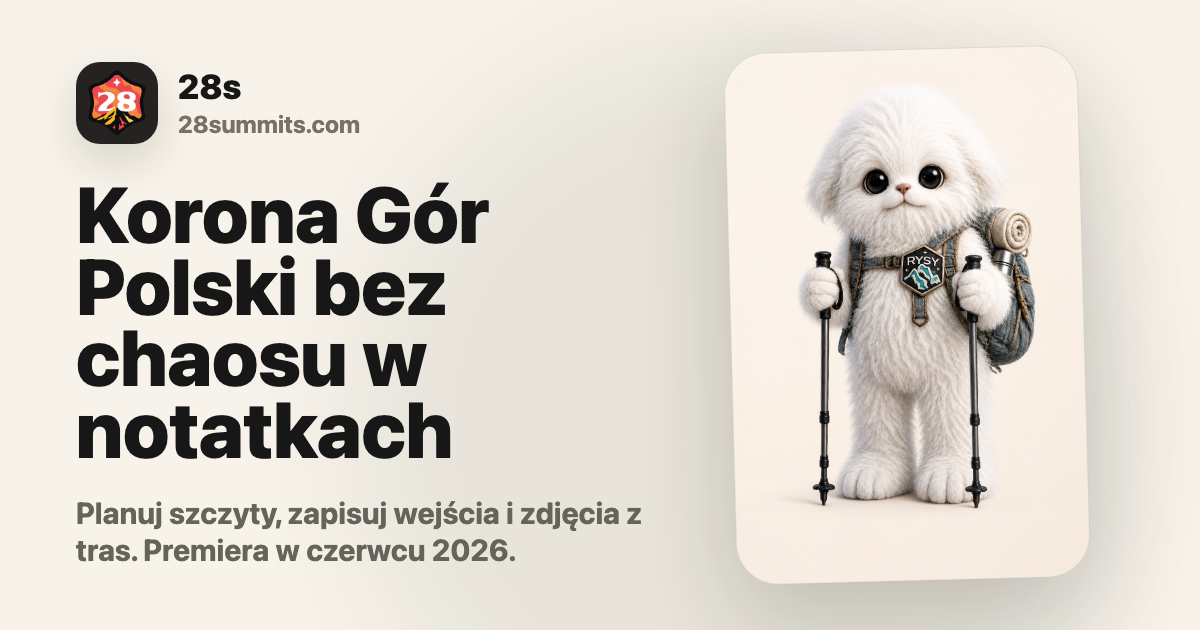
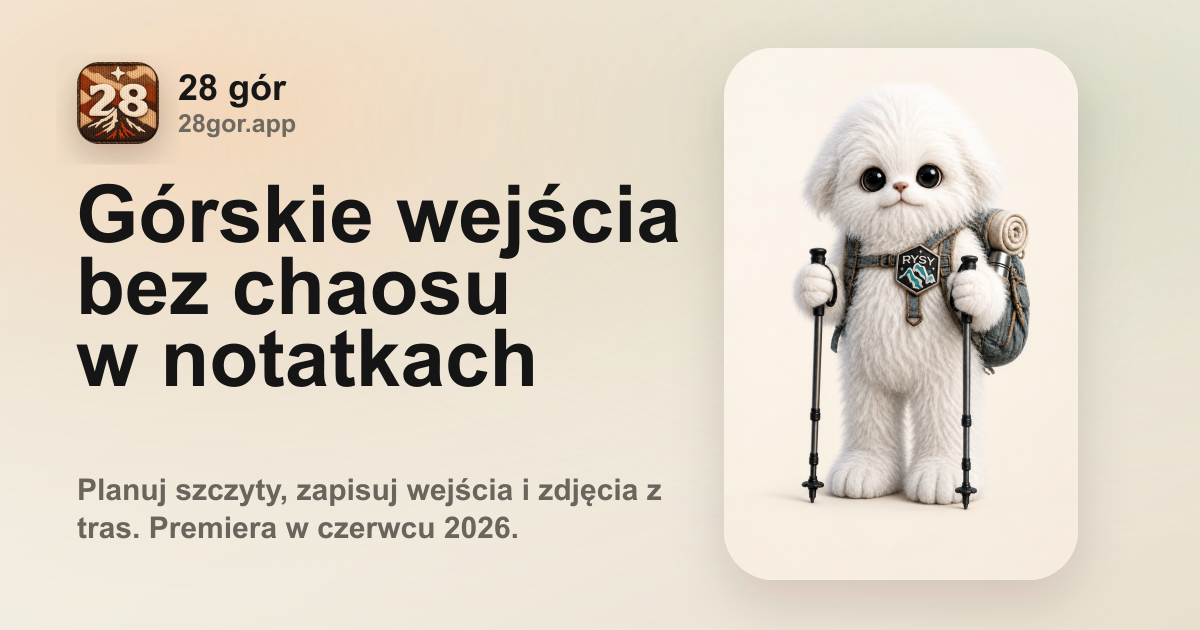
Rebrand site to 28 gór

diff --git a/app/_lib/site-content.ts b/app/_lib/site-content.ts
@@ -1,20 +1,24 @@
 export const siteConfig = {
-    name: "28s",
-    productName: "28 Summits",
+    name: "28 gór",
+    productName: "28 gór",
     operatorName: "async.studio",
     contactEmail: "[email redacted]",
-    siteHost: "28summits.com",
+    siteHost: "28gor.app",
     currencyCode: "PLN",
     paymentProcessorName: "Stripe",
     appStoreUrl: "https://apps.apple.com/app/28-summits/id0000000000",
     playStoreUrl: "https://play.google.com/store/apps/details?id=com.28summits.app",
-    launchUpdatesUrl: "mailto:[email redacted]?subject=28s%20launch%20updates",
-    siteUrl: "https://28summits.com",
-    description: "28s pomaga planować Koronę Gór Polski, zapisywać wejścia i porządkować zdjęcia z tras.",
-    socialTitle: "28s - Korona Gór Polski bez chaosu w notatkach",
+    launchUpdatesUrl: "mailto:[email redacted]?subject=28%20g%C3%B3r%20launch%20updates",
+    siteUrl: "https://28gor.app",
+    appIcon: "/app-icon.png",
+    appleTouchIcon: "/apple-touch-icon.png",
+    faviconIcon16: "/favicon-16x16.png",
+    faviconIcon32: "/favicon-32x32.png",
+    description: "28 gór pomaga planować szczyty, zapisywać wejścia i porządkować zdjęcia z tras.",
+    socialTitle: "28 gór - górskie wejścia bez chaosu w notatkach",
     socialDescription: "Planuj szczyty, zapisuj wejścia i zdjęcia z tras. Premiera w czerwcu 2026.",
     socialImage: "/og-image.png",
-    socialImageAlt: "28s - aplikacja do planowania i zapisywania Korony Gór Polski.",
+    socialImageAlt: "28 gór - aplikacja do planowania i zapisywania wejść w górach.",
 } as const
 
 export const siteLocales = ["pl", "en"] as const
@@ -70,8 +74,8 @@ export const homeContent: Record<
         },
         hero: {
             eyebrow: "Premiera w czerwcu 2026",
-            headline: "28s",
-            body: "Aplikacja dla osób, które chcą przejść Koronę Gór Polski bez chaosu w notatkach: planuj szczyty, zapisuj wejścia, dodawaj zdjęcia i wracaj do tras, które naprawdę zrobiłeś.",
+            headline: "28 gór",
+            body: "Aplikacja dla osób, które chcą przejść 28 gór bez chaosu w notatkach: planuj szczyty, zapisuj wejścia, dodawaj zdjęcia i wracaj do tras, które naprawdę zrobiłeś.",
             ctas: {
                 updates: "Daj znać o starcie",
             },
@@ -81,7 +85,7 @@ export const homeContent: Record<
         },
         compliance: {
             summaryParts: [
-                `28s to produkt ${siteConfig.operatorName}`,
+                `28 gór to produkt ${siteConfig.operatorName}`,
                 "fizyczne piny kolekcjonerskie w aplikacji",
                 `ceny w ${siteConfig.currencyCode}`,
                 `${siteConfig.paymentProcessorName} tylko dla fizycznych produktów`,
@@ -106,8 +110,8 @@ export const homeContent: Record<
         },
         hero: {
             eyebrow: "Coming June 2026",
-            headline: "28s",
-            body: "A mountain companion for the Crown of Polish Mountains: plan your peaks, record real completions, attach photos, and keep the routes you actually walked in one tidy place.",
+            headline: "28 gór",
+            body: "A mountain companion for people planning their next peaks: record real completions, attach photos, and keep the routes you actually walked in one tidy place.",
             ctas: {
                 updates: "Get launch updates",
             },
@@ -117,7 +121,7 @@ export const homeContent: Record<
         },
         compliance: {
             summaryParts: [
-                `28s is a product by ${siteConfig.operatorName}`,
+                `28 gór is a product by ${siteConfig.operatorName}`,
                 "physical collectible pins in app",
                 `prices in ${siteConfig.currencyCode}`,
                 `${siteConfig.paymentProcessorName} only for physical products`,
@@ -149,8 +153,8 @@ export const legalDocuments: Record<LegalDocument["slug"], LegalDocument> = {
         title: "Polityka prywatności",
         effectiveDate: "Obowiązuje od 29 maja 2026 r.",
         intro: [
-            `Ta polityka opisuje, jak ${siteConfig.operatorName} jako operator produktu 28s / 28 Summits przetwarza dane osobowe użytkowników strony ${siteConfig.siteHost} oraz planowanej aplikacji mobilnej.`,
-            "28s ma wystartować w czerwcu 2026 r. Dokument obejmuje stronę zapowiadającą, kontakt z użytkownikami oraz funkcje aplikacji, takie jak konto, dziennik wejść, zdjęcia, preferencje i synchronizacja danych.",
+            `Ta polityka opisuje, jak ${siteConfig.operatorName} jako operator produktu 28 gór przetwarza dane osobowe użytkowników strony ${siteConfig.siteHost} oraz planowanej aplikacji mobilnej.`,
+            "28 gór ma wystartować w czerwcu 2026 r. Dokument obejmuje stronę zapowiadającą, kontakt z użytkownikami oraz funkcje aplikacji, takie jak konto, dziennik wejść, zdjęcia, preferencje i synchronizacja danych.",
         ],
         sections: [
             {
@@ -158,7 +162,7 @@ export const legalDocuments: Record<LegalDocument["slug"], LegalDocument> = {
                 body: [
                     {
                         type: "paragraph",
-                        text: `Administratorem danych osobowych jest ${siteConfig.operatorName}, operator produktu 28s / 28 Summits. Kontakt w sprawach prywatności, danych osobowych i obsługi użytkownika: ${siteConfig.contactEmail}.`,
+                        text: `Administratorem danych osobowych jest ${siteConfig.operatorName}, operator produktu 28 gór. Kontakt w sprawach prywatności, danych osobowych i obsługi użytkownika: ${siteConfig.contactEmail}.`,
                     },
                     {
                         type: "paragraph",
@@ -304,7 +308,7 @@ export const legalDocuments: Record<LegalDocument["slug"], LegalDocument> = {
                 body: [
                     {
                         type: "paragraph",
-                        text: "28s nie podejmuje decyzji wywołujących wobec użytkownika skutki prawne wyłącznie w sposób zautomatyzowany. Jeżeli zostaną uruchomione funkcje AI, będą przetwarzać dane przekazane przez użytkownika tylko w zakresie potrzebnym do działania konkretnej funkcji, np. podsumowania notatki albo uporządkowania opisu trasy.",
+                        text: "28 gór nie podejmuje decyzji wywołujących wobec użytkownika skutki prawne wyłącznie w sposób zautomatyzowany. Jeżeli zostaną uruchomione funkcje AI, będą przetwarzać dane przekazane przez użytkownika tylko w zakresie potrzebnym do działania konkretnej funkcji, np. podsumowania notatki albo uporządkowania opisu trasy.",
                     },
                 ],
             },
@@ -333,8 +337,8 @@ export const legalDocuments: Record<LegalDocument["slug"], LegalDocument> = {
         title: "Regulamin",
         effectiveDate: "Obowiązuje od 29 maja 2026 r.",
         intro: [
-            `Regulamin określa zasady korzystania ze strony ${siteConfig.siteHost} oraz aplikacji 28s / 28 Summits. Produkt jest rozwijany przez ${siteConfig.operatorName}, a premiera aplikacji jest planowana na czerwiec 2026 r.`,
-            "28s ma pomagać w planowaniu i dokumentowaniu Korony Gór Polski. Nie zastępuje map, komunikatów GOPR/TOPR, prognoz pogody, oznaczeń w terenie ani rozsądnej oceny warunków.",
+            `Regulamin określa zasady korzystania ze strony ${siteConfig.siteHost} oraz aplikacji 28 gór. Produkt jest rozwijany przez ${siteConfig.operatorName}, a premiera aplikacji jest planowana na czerwiec 2026 r.`,
+            "28 gór ma pomagać w planowaniu i dokumentowaniu górskich wejść. Nie zastępuje map, komunikatów GOPR/TOPR, prognoz pogody, oznaczeń w terenie ani rozsądnej oceny warunków.",
         ],
         sections: [
             {
@@ -342,7 +346,7 @@ export const legalDocuments: Record<LegalDocument["slug"], LegalDocument> = {
                 body: [
                     {
                         type: "paragraph",
-                        text: `Usługodawcą i operatorem produktu 28s / 28 Summits jest ${siteConfig.operatorName}. Kontakt w sprawach regulaminu, działania usługi i obsługi użytkownika: ${siteConfig.contactEmail}.`,
+                        text: `Usługodawcą i operatorem produktu 28 gór jest ${siteConfig.operatorName}. Kontakt w sprawach regulaminu, działania usługi i obsługi użytkownika: ${siteConfig.contactEmail}.`,
                     },
                     {
                         type: "paragraph",
@@ -356,7 +360,7 @@ export const legalDocuments: Record<LegalDocument["slug"], LegalDocument> = {
                     {
                         type: "list",
                         items: [
-                            `Usługa - strona ${siteConfig.siteHost}, aplikacja 28s / 28 Summits oraz funkcje udostępniane użytkownikom.`,
+                            `Usługa - strona ${siteConfig.siteHost}, aplikacja 28 gór oraz funkcje udostępniane użytkownikom.`,
                             "Użytkownik - osoba korzystająca ze strony, aplikacji, formularza kontaktowego lub funkcji konta.",
                             "Konto - indywidualny dostęp do funkcji aplikacji, jeżeli konto zostanie utworzone.",
                             "Treści użytkownika - zdjęcia, notatki, opisy, statusy wejść, preferencje i inne dane dodane przez użytkownika.",
@@ -373,7 +377,7 @@ export const legalDocuments: Record<LegalDocument["slug"], LegalDocument> = {
                     },
                     {
                         type: "paragraph",
-                        text: "W aplikacji 28s będzie można kupić limitowane piny kolekcjonerskie oraz powiązany merch jako fizyczne produkty wysyłane do klientów. Warunki zakupu będą prezentowane przed płatnością.",
+                        text: "W aplikacji 28 gór będzie można kupić limitowane piny kolekcjonerskie oraz powiązany merch jako fizyczne produkty wysyłane do klientów. Warunki zakupu będą prezentowane przed płatnością.",
                     },
                 ],
             },
@@ -444,7 +448,7 @@ export const legalDocuments: Record<LegalDocument["slug"], LegalDocument> = {
                 body: [
                     {
                         type: "paragraph",
-                        text: `${siteConfig.paymentProcessorName} obsługuje wyłącznie płatności za fizyczne produkty 28s wysyłane do klientów. 28s nie używa ${siteConfig.paymentProcessorName} do sprzedaży cyfrowych funkcji aplikacji, subskrypcji, kredytów, dostępu premium, odblokowań funkcji ani treści cyfrowych.`,
+                        text: `${siteConfig.paymentProcessorName} obsługuje wyłącznie płatności za fizyczne produkty 28 gór wysyłane do klientów. 28 gór nie używa ${siteConfig.paymentProcessorName} do sprzedaży cyfrowych funkcji aplikacji, subskrypcji, kredytów, dostępu premium, odblokowań funkcji ani treści cyfrowych.`,
                     },
                     {
                         type: "paragraph",
@@ -513,7 +517,7 @@ export const legalDocuments: Record<LegalDocument["slug"], LegalDocument> = {
                 body: [
                     {
                         type: "paragraph",
-                        text: "Niektóre edycje pinów mogą zawierać QR lub NFC, które otwierają informacje o fizycznym produkcie albo pozwalają powiązać pin z istniejącym profilem 28s. QR ani NFC nie służą do płatnego odblokowywania cyfrowych funkcji aplikacji.",
+                        text: "Niektóre edycje pinów mogą zawierać QR lub NFC, które otwierają informacje o fizycznym produkcie albo pozwalają powiązać pin z istniejącym profilem 28 gór. QR ani NFC nie służą do płatnego odblokowywania cyfrowych funkcji aplikacji.",
                     },
                 ],
             },
@@ -548,7 +552,7 @@ export const legalDocuments: Record<LegalDocument["slug"], LegalDocument> = {
                 body: [
                     {
                         type: "paragraph",
-                        text: "Nazwa 28s, 28 Summits, wygląd strony i aplikacji, teksty, układ interfejsu, grafiki oraz elementy produktu stanowią własność operatora albo są używane na podstawie odpowiednich uprawnień. Korzystanie z usługi nie przenosi na użytkownika praw własności intelektualnej.",
+                        text: "Nazwa 28 gór, wygląd strony i aplikacji, teksty, układ interfejsu, grafiki oraz elementy produktu stanowią własność operatora albo są używane na podstawie odpowiednich uprawnień. Korzystanie z usługi nie przenosi na użytkownika praw własności intelektualnej.",
                     },
                 ],
             },
@@ -599,8 +603,8 @@ export const englishLegalDocuments: Record<LegalDocument["slug"], LegalDocument>
         title: "Privacy Policy",
         effectiveDate: "Effective from May 29, 2026",
         intro: [
-            `This policy explains how ${siteConfig.operatorName}, as the operator of 28s / 28 Summits, processes personal data of users of ${siteConfig.siteHost} and the planned mobile app.`,
-            "28s is planned to launch in June 2026. This document covers the launch website, user contact, and planned app features such as accounts, summit logs, photos, preferences, and data synchronization.",
+            `This policy explains how ${siteConfig.operatorName}, as the operator of 28 gór, processes personal data of users of ${siteConfig.siteHost} and the planned mobile app.`,
+            "28 gór is planned to launch in June 2026. This document covers the launch website, user contact, and planned app features such as accounts, summit logs, photos, preferences, and data synchronization.",
         ],
         sections: [
             {
@@ -608,7 +612,7 @@ export const englishLegalDocuments: Record<LegalDocument["slug"], LegalDocument>
                 body: [
                     {
                         type: "paragraph",
-                        text: `The data controller is ${siteConfig.operatorName}, operator of 28s / 28 Summits. For privacy, personal data, and user support matters, contact us at ${siteConfig.contactEmail}.`,
+                        text: `The data controller is ${siteConfig.operatorName}, operator of 28 gór. For privacy, personal data, and user support matters, contact us at ${siteConfig.contactEmail}.`,
                     },
                     {
                         type: "paragraph",
@@ -754,7 +758,7 @@ export const englishLegalDocuments: Record<LegalDocument["slug"], LegalDocument>
                 body: [
                     {
                         type: "paragraph",
-                        text: "28s does not make decisions that produce legal effects for users solely by automated means. If AI features are launched, they will process user-provided data only as needed for a specific feature, for example to summarize a note or organize a route description.",
+                        text: "28 gór does not make decisions that produce legal effects for users solely by automated means. If AI features are launched, they will process user-provided data only as needed for a specific feature, for example to summarize a note or organize a route description.",
                     },
                 ],
             },
@@ -783,8 +787,8 @@ export const englishLegalDocuments: Record<LegalDocument["slug"], LegalDocument>
         title: "Terms",
         effectiveDate: "Effective from May 29, 2026",
         intro: [
-            `These terms define the rules for using ${siteConfig.siteHost} and the 28s / 28 Summits app. The product is developed by ${siteConfig.operatorName}, and the app launch is planned for June 2026.`,
-            "28s helps users plan and document the Crown of Polish Mountains. It does not replace maps, GOPR/TOPR notices, weather forecasts, trail signs, or your own assessment of conditions.",
+            `These terms define the rules for using ${siteConfig.siteHost} and the 28 gór app. The product is developed by ${siteConfig.operatorName}, and the app launch is planned for June 2026.`,
+            "28 gór helps users plan and document mountain hikes. It does not replace maps, GOPR/TOPR notices, weather forecasts, trail signs, or your own assessment of conditions.",
         ],
         sections: [
             {
@@ -792,7 +796,7 @@ export const englishLegalDocuments: Record<LegalDocument["slug"], LegalDocument>
                 body: [
                     {
                         type: "paragraph",
-                        text: `${siteConfig.operatorName} is the service provider and operator of 28s / 28 Summits. For questions about these terms, the service, or user support, contact ${siteConfig.contactEmail}.`,
+                        text: `${siteConfig.operatorName} is the service provider and operator of 28 gór. For questions about these terms, the service, or user support, contact ${siteConfig.contactEmail}.`,
                     },
                     {
                         type: "paragraph",
@@ -806,7 +810,7 @@ export const englishLegalDocuments: Record<LegalDocument["slug"], LegalDocument>
                     {
                         type: "list",
                         items: [
-                            `Service - ${siteConfig.siteHost}, the 28s / 28 Summits app, and features made available to users.`,
+                            `Service - ${siteConfig.siteHost}, the 28 gór app, and features made available to users.`,
                             "User - a person using the website, app, contact form, or account features.",
                             "Account - individual access to app features if an account is created.",
                             "User Content - photos, notes, descriptions, summit statuses, preferences, and other data added by the user.",
@@ -819,7 +823,7 @@ export const englishLegalDocuments: Record<LegalDocument["slug"], LegalDocument>
                 body: [
                     {
                         type: "paragraph",
-                        text: "At the launch-preview stage, the website may provide product information and contact options. After launch, the app may include peak planning, summit logs, photo storage, account synchronization, preferences, and other features related to the Crown of Polish Mountains.",
+                        text: "At the launch-preview stage, the website may provide product information and contact options. After launch, the app may include peak planning, summit logs, photo storage, account synchronization, preferences, and other features related to mountain planning and trip documentation.",
                     },
                     {
                         type: "paragraph",
@@ -894,7 +898,7 @@ export const englishLegalDocuments: Record<LegalDocument["slug"], LegalDocument>
                 body: [
                     {
                         type: "paragraph",
-                        text: `${siteConfig.paymentProcessorName} handles payments only for physical 28s products shipped to customers. 28s does not use ${siteConfig.paymentProcessorName} to sell digital app features, subscriptions, credits, premium access, feature unlocks, or digital content.`,
+                        text: `${siteConfig.paymentProcessorName} handles payments only for physical 28 gór products shipped to customers. 28 gór does not use ${siteConfig.paymentProcessorName} to sell digital app features, subscriptions, credits, premium access, feature unlocks, or digital content.`,
                     },
                     {
                         type: "paragraph",
@@ -963,7 +967,7 @@ export const englishLegalDocuments: Record<LegalDocument["slug"], LegalDocument>
                 body: [
                     {
                         type: "paragraph",
-                        text: "Some pin editions may include QR or NFC that opens information about the physical product or lets the user associate the pin with an existing 28s profile. QR and NFC are not used to unlock paid digital app features.",
+                        text: "Some pin editions may include QR or NFC that opens information about the physical product or lets the user associate the pin with an existing 28 gór profile. QR and NFC are not used to unlock paid digital app features.",
                     },
                 ],
             },
@@ -998,7 +1002,7 @@ export const englishLegalDocuments: Record<LegalDocument["slug"], LegalDocument>
                 body: [
                     {
                         type: "paragraph",
-                        text: "The 28s and 28 Summits names, the website and app appearance, text, interface layout, graphics, and product elements are owned by the operator or used under appropriate rights. Using the service does not transfer intellectual property rights to the user.",
+                        text: "The 28 gór name, the website and app appearance, text, interface layout, graphics, and product elements are owned by the operator or used under appropriate rights. Using the service does not transfer intellectual property rights to the user.",
                     },
                 ],
             },

diff --git a/next.config.ts b/next.config.ts
@@ -1,7 +1,18 @@
 import type { NextConfig } from "next";
 
+const canonicalHost = "28gor.app";
+const redirectedHosts = ["www.28gor.app"] as const;
+
 const nextConfig: NextConfig = {
   reactStrictMode: true,
+  async redirects() {
+    return redirectedHosts.map((host) => ({
+      source: "/:path*",
+      has: [{ type: "host" as const, value: host }],
+      destination: `https://${canonicalHost}/:path*`,
+      permanent: true,
+    }));
+  },
 };
 
 export default nextConfig;

diff --git a/app/layout.tsx b/app/layout.tsx
@@ -29,8 +29,12 @@ export const metadata: Metadata = {
         canonical: siteConfig.siteUrl,
     },
     icons: {
-        icon: "/moments-icon-figma.png",
-        apple: "/moments-icon-figma.png",
+        icon: [
+            { url: siteConfig.faviconIcon16, sizes: "16x16", type: "image/png" },
+            { url: siteConfig.faviconIcon32, sizes: "32x32", type: "image/png" },
+            { url: siteConfig.appIcon, sizes: "1024x1024", type: "image/png" },
+        ],
+        apple: [{ url: siteConfig.appleTouchIcon, sizes: "180x180", type: "image/png" }],
     },
     openGraph: {
         type: "website",

diff --git a/app/_lib/site-preferences.ts b/app/_lib/site-preferences.ts
@@ -4,8 +4,8 @@ import { useCallback, useEffect, useState } from "react"
 import { SiteLocale, SiteThemeMode, siteLocales, siteThemeModes } from "./site-content"
 
 const sitePreferenceStorageKeys = {
-    locale: "28s.www.locale",
-    themeMode: "28s.www.theme-mode",
+    locale: "28gor.www.locale",
+    themeMode: "28gor.www.theme-mode",
 } as const
 
 const defaultLocale: SiteLocale = "en"

diff --git a/app/_components/mascot-preview.tsx b/app/_components/mascot-preview.tsx
@@ -11,7 +11,7 @@ type MascotPreviewProps = {
 
 const mascotImage = {
     src: "/mascot-hiker.jpg",
-    alt: "White 28 Summits mountain mascot with trekking poles and a Rysy badge.",
+    alt: "White 28 gór mountain mascot with trekking poles and a Rysy badge.",
     width: 1023,
     height: 1537,
 } as const

diff --git a/app/_components/site-shell.tsx b/app/_components/site-shell.tsx
@@ -21,7 +21,7 @@ export function BrandMark({ compact = false, showName = true }: BrandMarkProps) 
             className="flex w-[99px] flex-col items-center gap-2 text-center"
         >
             <Image
-                src="/moments-icon-figma.png"
+                src={siteConfig.appIcon}
                 alt=""
                 width={80}
                 height={80}

diff --git a/app/_components/smooth-navigation.tsx b/app/_components/smooth-navigation.tsx
@@ -3,7 +3,7 @@
 import { startTransition, type AnchorHTMLAttributes, type MouseEvent, type ReactNode } from "react"
 import { useRouter } from "next/navigation"
 
-const previousPathStorageKey = "28s.previousPath"
+const previousPathStorageKey = "28gor.previousPath"
 
 type NavigateOptions = {
     replace?: boolean

diff --git a/README.md b/README.md
@@ -1,6 +1,6 @@
-# 28summits.com
+# 28gor.app
 
-Standalone Next.js + TypeScript landing page for 28s.
+Standalone Next.js + TypeScript landing page for 28 gór.
 
 ## Usage
 